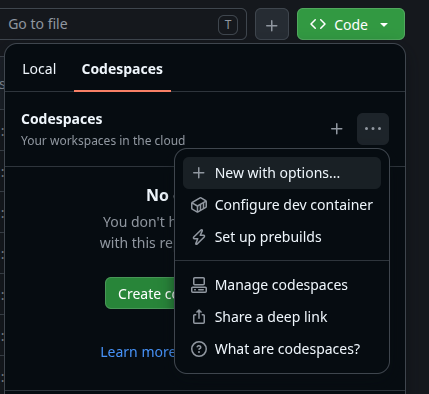
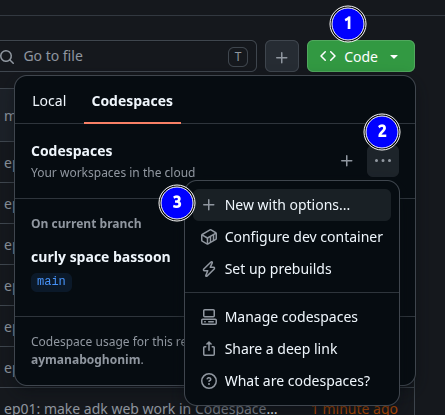
README: numbered screenshot for New with options (#3)
Replaces the Codespaces screenshot with Ayman's numbered version (1:
Code, 2: … menu, 3: New with options).

🤖 Generated with [Claude Code](https://claude.com/claude-code)

Changed region(s): [[0.0, 0.0, 0.9697, 1.0]]

diff --git a/README.md b/README.md
@@ -48,7 +48,7 @@ always has the latest episode. Full plan: [docs/ROADMAP.md](docs/ROADMAP.md).
    `GOOGLE_API_KEY` (a Codespaces secret: it stays in your GitHub settings, never in the repo).
    The badge above also works; then add the key afterwards (see the `scripts/check.py` output).
 
-   <img src="docs/assets/codespaces-new-with-options.png" alt="Code, Codespaces tab, the … menu, New with options" width="320">
+   <img src="docs/assets/codespaces-new-with-options.png" alt="1: Code, 2: the … menu on the Codespaces tab, 3: New with options" width="360">
 2. Wait for the setup: it installs everything and runs the self-check.
 3. In the terminal:
    ```bash
